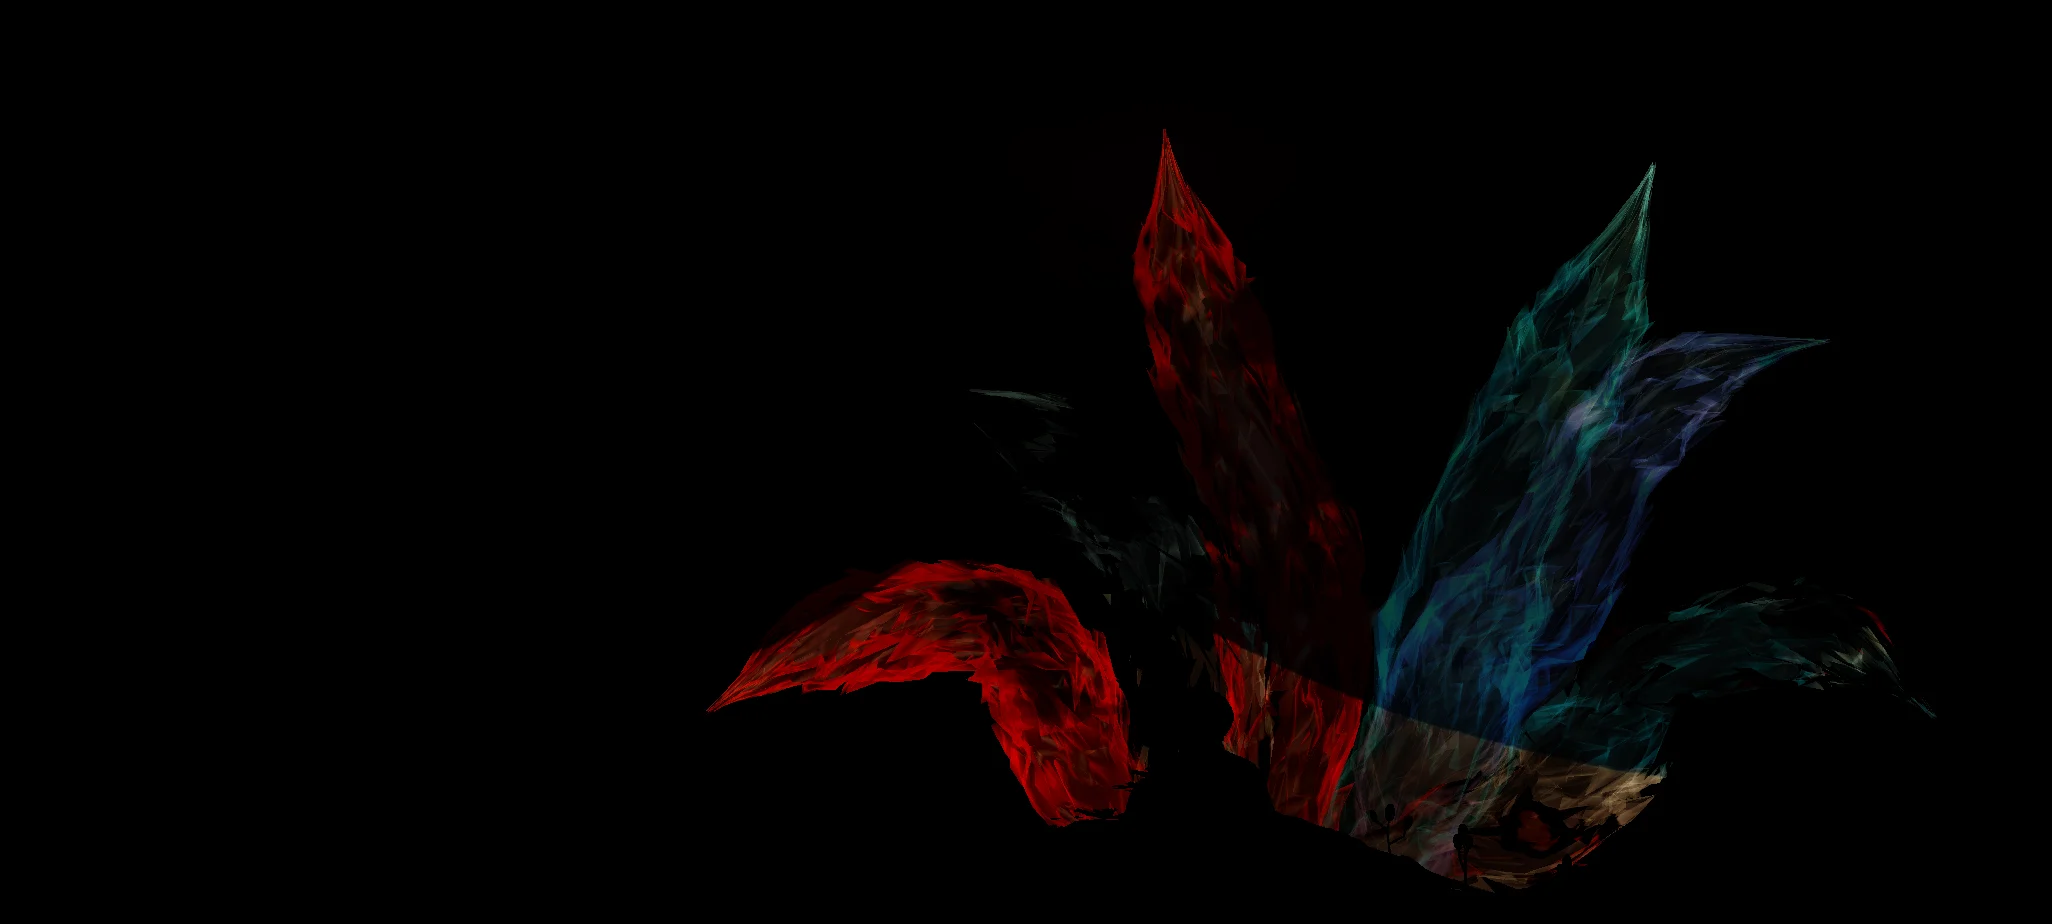
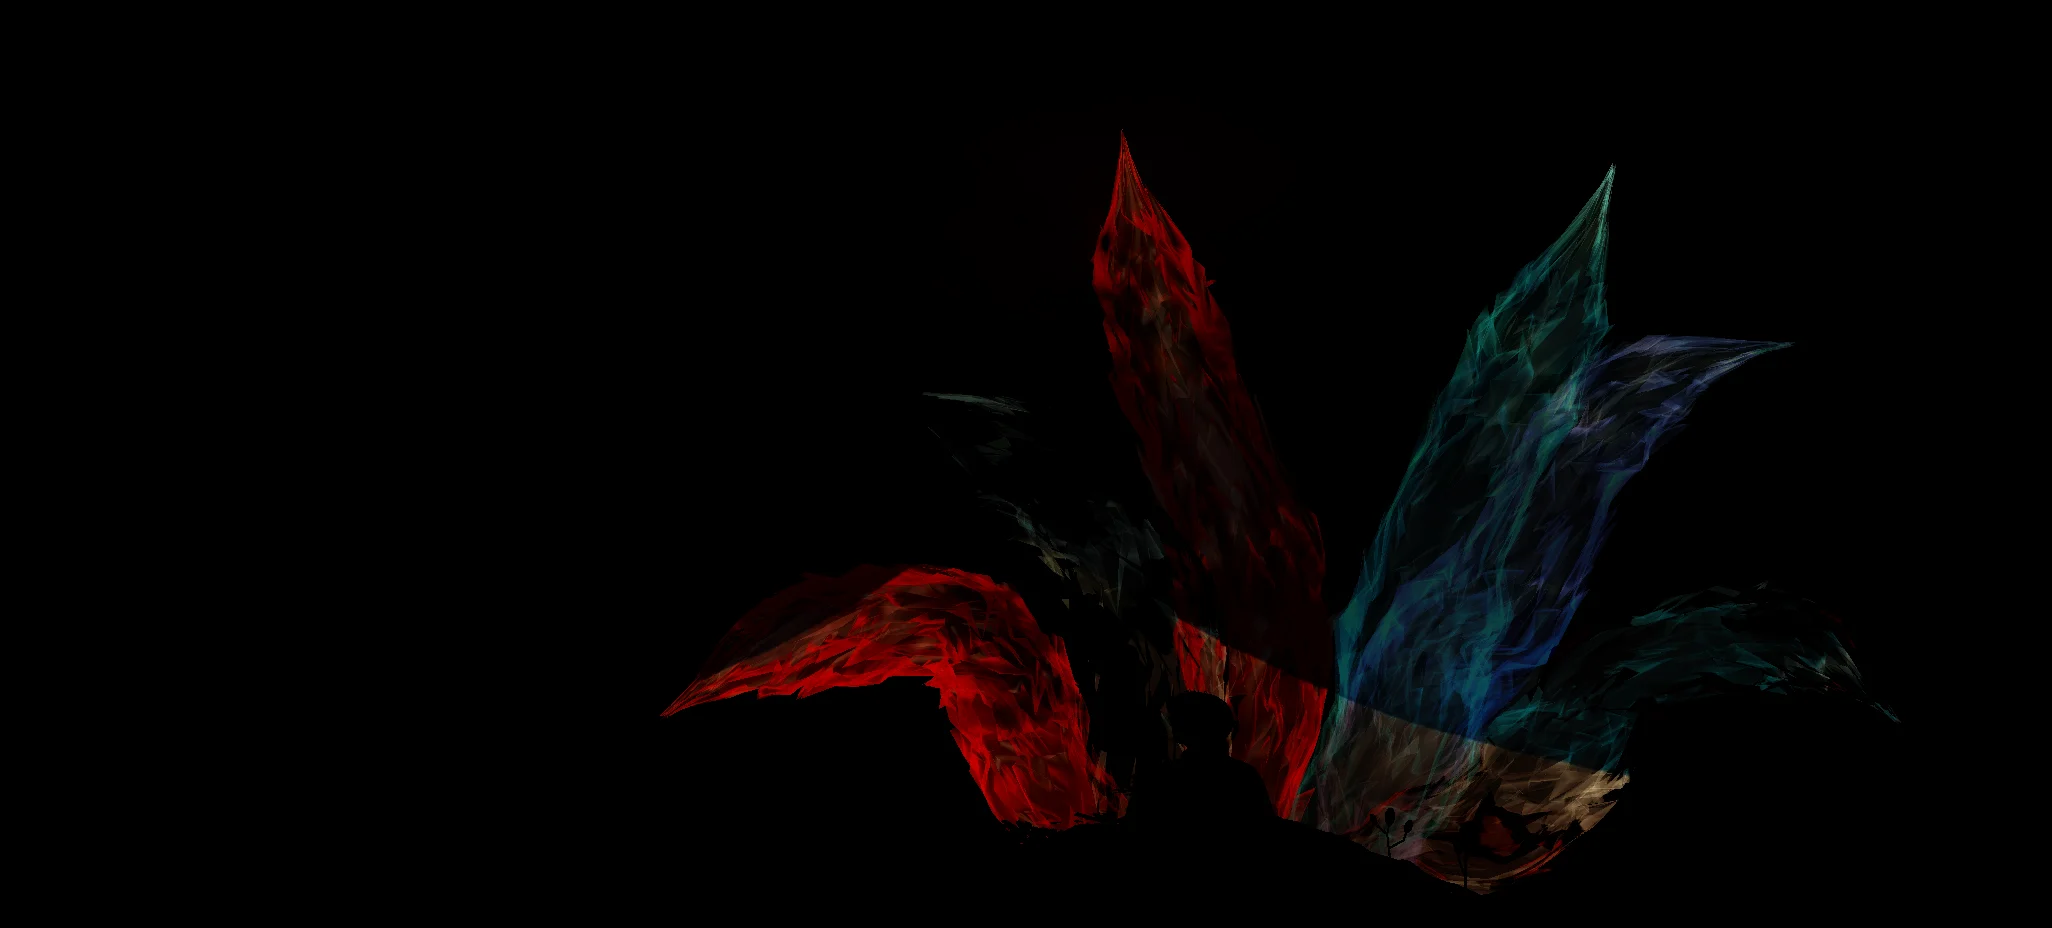
Set the tails 0.28 m across (toward his left) and re-bake the 3D-off stills.

diff --git a/src/components/experience/kitsuneRig.js b/src/components/experience/kitsuneRig.js
@@ -57,7 +57,7 @@ export const COLOR_TUNING = {
 // Where the tails sit relative to him, all moved as one piece: metres across (x), up (y) and back
 // (z) in his own frame, and a turn in degrees about his tailbone (yaw about his up, pitch about
 // his side, roll about his back). Tuned live in the scene editor (TailPoseTuner.jsx).
-export const TAIL_POSE = { x: 0, y: 0, z: 0, yaw: 0, pitch: 0, roll: 0 };
+export const TAIL_POSE = { x: -0.28, y: 0, z: 0, yaw: 0, pitch: 0, roll: 0 };
 const liveKitsunes = new Set();
 export function setTailPose(patch) {
   Object.assign(TAIL_POSE, patch);
